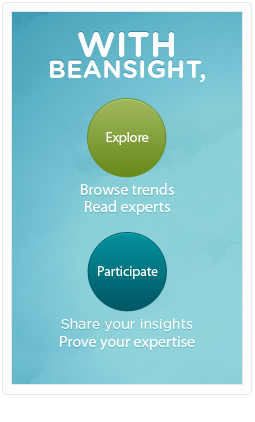
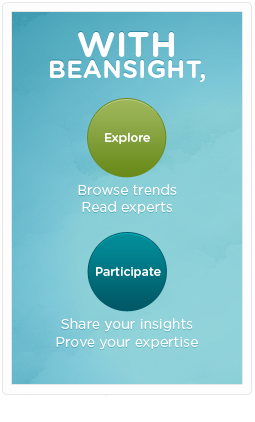
i18n welcome message
git-svn-id: svn://92.243.5.254/srv/d_sterenfr/svn/beansight/Website/trunk@336 2e3b6b4b-2413-4334-92b7-7e2fc515c0b6

diff --git a/beansight/main/public/stylesheets/style.css b/beansight/main/public/stylesheets/style.css
@@ -297,7 +297,7 @@ hr.clear{clear:both;visibility:hidden;height:1px;overflow:hidden;border:0;}
 #content #sidebarright h2.tagsh2 span{width:208px;padding-left:20px;}
 
 #content #sidebarright a.whatisbeansight{position:relative;display:block;width:250px;height:416px;background:url(/public/images/welcome-en.png) no-repeat 0 0;}
-
+#content #sidebarright a.whatisbeansight.fr{background-image:url(/public/images/welcome-fr.png);}
 
 #content .bloccontent{float:left;background-color:#fff;-moz-border-radius:4px;-webkit-border-radius:4px;border-bottom:solid #f4f4f4 1px;padding:10px;}
 #content .blocleft{width:230px;margin-right:20px;}

diff --git a/beansight/main/app/views/Application/welcome.html b/beansight/main/app/views/Application/welcome.html
@@ -30,7 +30,7 @@
 
 <!-- SIDEBAR RIGHT -->
 <div id="sidebarright" class="notlog">
-    <a href="#" class="whatisbeansight"></a>
+    <a href="#" class="whatisbeansight &{'i18n'}"></a>
 </div>
 </div>
 
